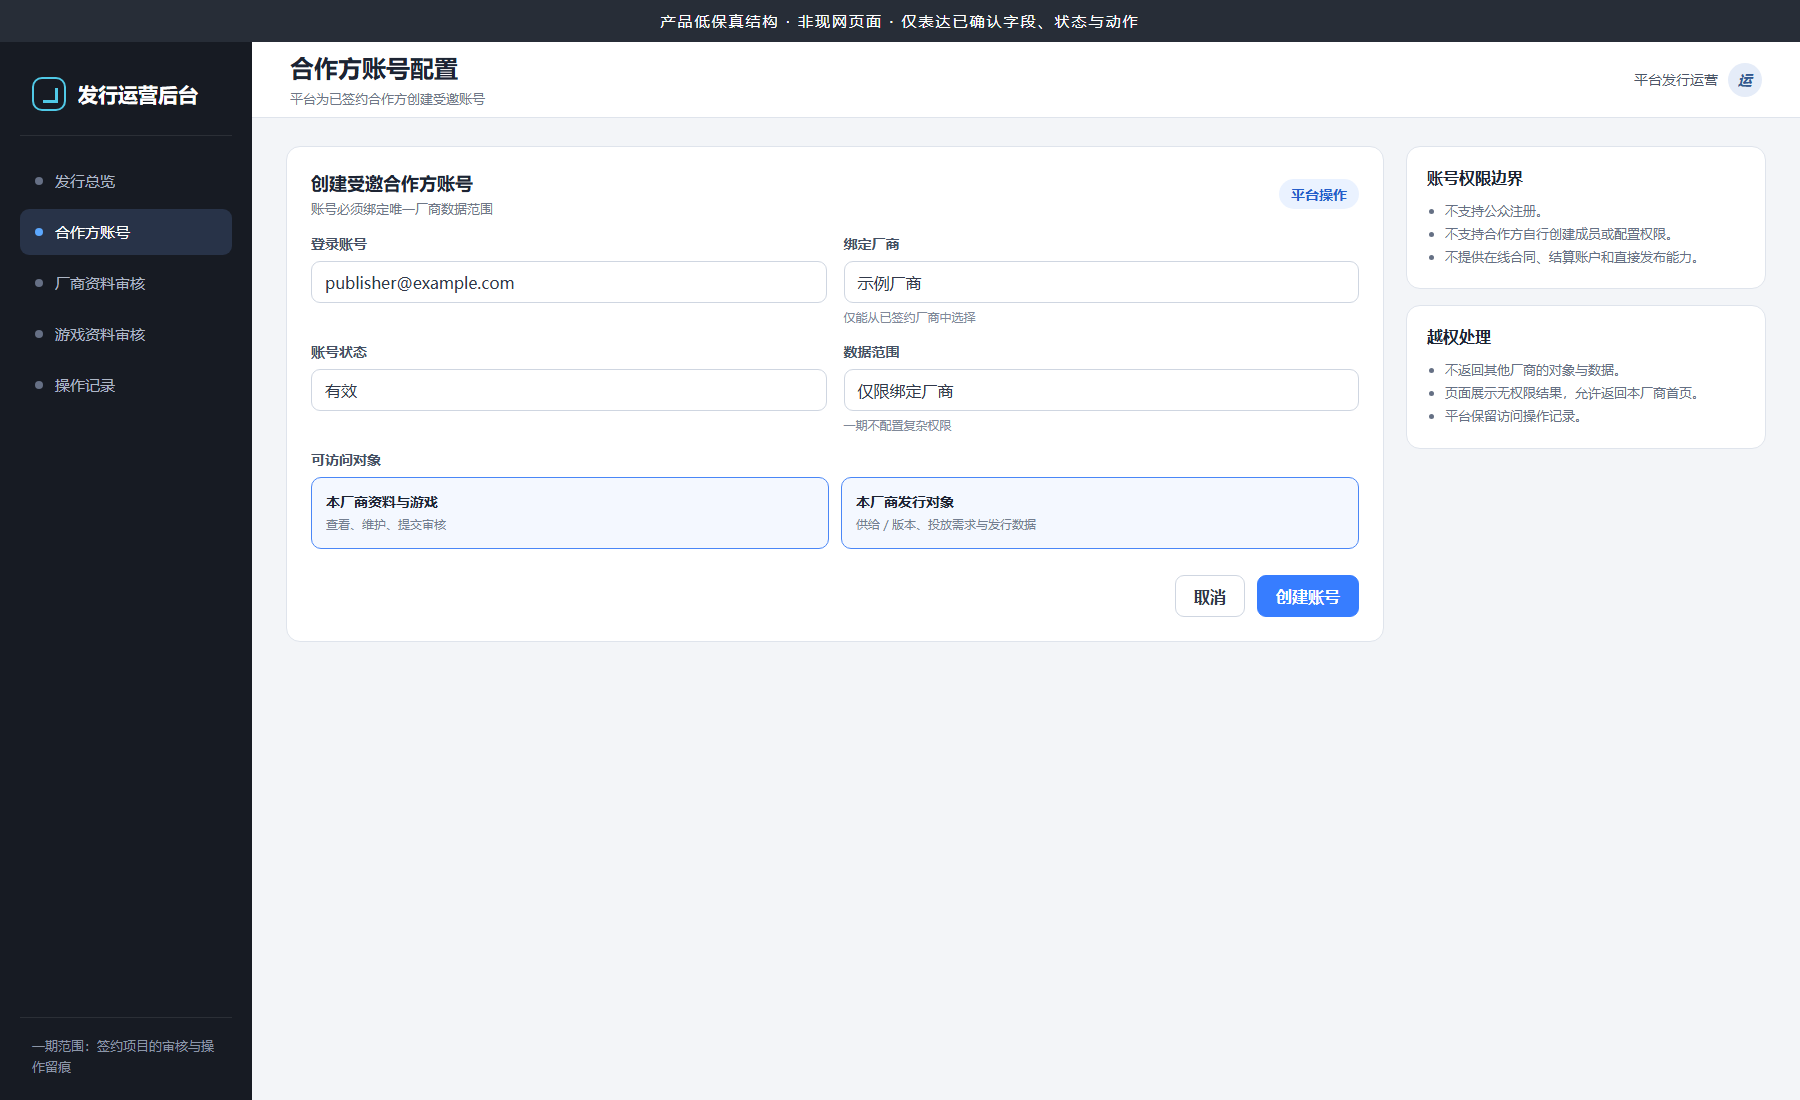
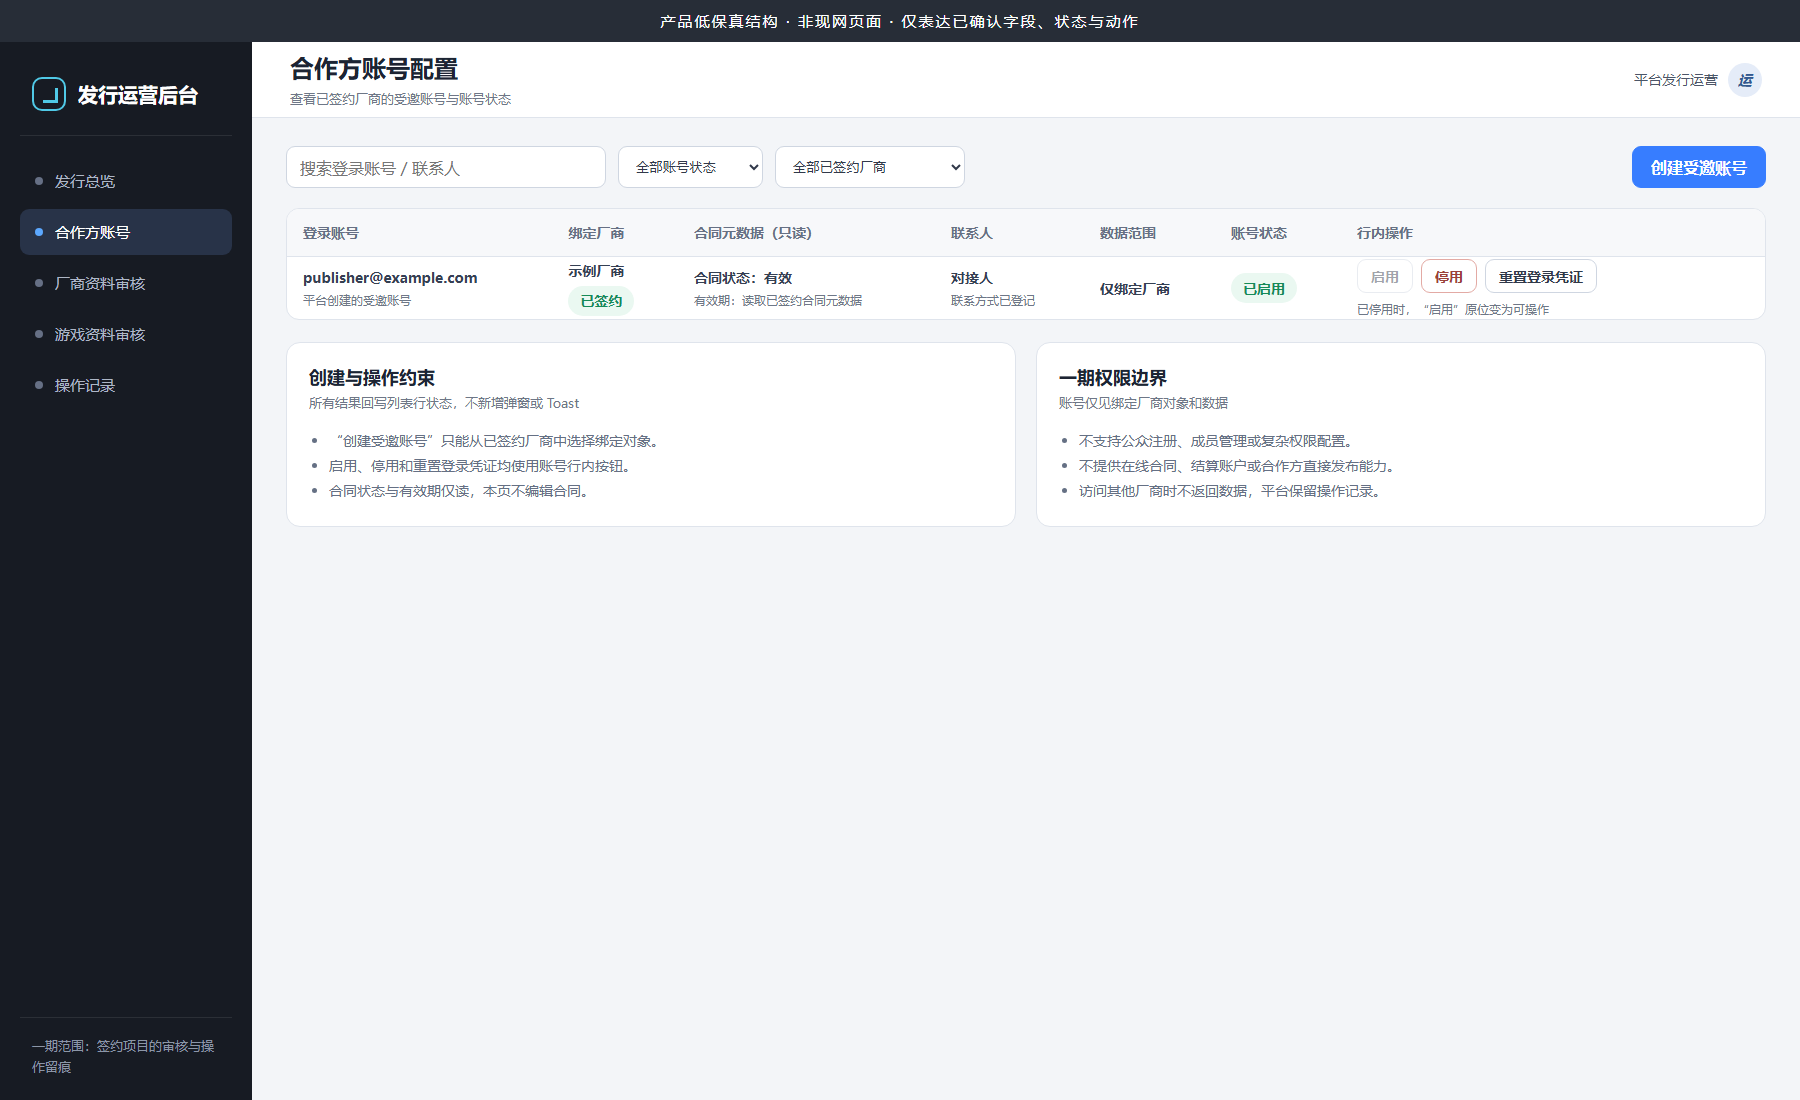
docs: align partner account visual with PRD

diff --git a/public/prd/genuine-game-distribution-phase1/02-developer/developer-screens.html b/public/prd/genuine-game-distribution-phase1/02-developer/developer-screens.html
@@ -24,7 +24,7 @@ const pages = {
 'game-list':()=>admin('游戏管理','仅查看和管理本厂商游戏','游戏管理',`<div class="toolbar"><div class="toolbar-left"><input class="input" placeholder="搜索游戏名称"><select class="select"><option>全部发行方式</option></select><select class="select"><option>全部资料状态</option></select><select class="select"><option>全部发布状态</option></select></div><button class="btn primary">创建游戏</button></div><table class="table"><thead><tr><th>游戏</th><th>发行方式</th><th>资料审核</th><th>供给／版本</th><th>发布状态</th><th>投放状态</th><th>更新时间</th><th>操作</th></tr></thead><tbody><tr><td><div class="object"><i class="thumb">封面</i><div><b>首款签约游戏</b><div class="muted" style="font-size:12px;margin-top:4px">本厂商项目</div></div></div></td><td>${badge('盖世直接下载','blue')}</td><td>${badge('已驳回','red')}</td><td>${badge('未进入')}</td><td>${badge('草稿')}</td><td>${badge('未提交')}</td><td>2026-09-01 10:30</td><td><span class="link">编辑</span><br><span class="link" style="line-height:2.1">查看审核</span></td></tr></tbody></table><div class="pagination"><button class="page-btn">‹</button><button class="page-btn active">1</button><button class="page-btn">›</button></div><div class="card" style="margin-top:22px;padding:18px;color:#657084;font-size:14px;line-height:1.7"><b style="color:#30394a">列表恢复：</b> 加载失败时保留搜索、筛选和排序条件并提供重试；无游戏时展示空态和“创建游戏”入口；不展示其他厂商数据。</div>`,false),
 'game-editor':()=>admin('创建／编辑游戏','填写发行资料，保存草稿或提交审核','游戏管理',`<div class="form-layout"><section class="card form-card"><div class="form-section"><div class="section-title"><div><h2>基本资料与宣传素材</h2><p>提交后进入资料审核中</p></div>${badge('草稿')}</div><div class="field-grid">${field('游戏名称','首款签约游戏')}${field('发行厂商','示例厂商','根据账号绑定厂商确定')}${field('游戏简介','游戏简介内容','',true,'textarea')}<div class="field full"><label>宣传素材</label><div class="placeholder">封面、媒体与相关素材上传区</div><div class="help">厂商对素材拥有合法授权</div></div></div></div><div class="form-section"><h2>语言、地区与系统要求</h2><div class="field-grid">${field('支持语言','由开发者选择')}${field('发行地区','由签约与授权范围确定')}${field('支持系统','Windows')}${field('系统要求','填写必要运行要求')}</div></div><div class="form-section"><h2>游戏标签与发行方式</h2><div class="field-grid">${field('游戏标签','类型／题材／玩法／适配设备','平台审核或修正后生效',true)}<div class="field full"><label>发行方式</label><div class="choice-row"><div class="choice"><b>第三方平台激活</b><span>后续进入 CDKEY 供给关联流程</span></div><div class="choice selected"><b>盖世直接下载</b><span>后续进入 Windows 包体版本和测试流程</span></div></div></div></div></div><div class="actions" style="justify-content:flex-end"><button class="btn">保存草稿</button><button class="btn primary">提交审核</button></div></section><aside><div class="card side-note"><h3>提交规则</h3><ul><li>提交失败不清空已填输入。</li><li>审核中页面只读，防止重复提交。</li><li>已发布游戏修改关键资料时，线上内容保持不变，修改稿重新审核。</li></ul></div><div class="card side-note"><h3>一期发行限制</h3><ul><li>仅覆盖一款 Windows 游戏、单一正式发布分支。</li><li>开发者只能提交审核，不能直接发布。</li></ul></div></aside></div>`,false),
 'review-result':()=>admin('资料审核结果','查看原因、保留已填内容并修改后重新提交','游戏管理',`<div class="state-panel"><div class="detail-stack"><section class="card result-head"><div style="display:flex;align-items:center;justify-content:space-between"><div><h2>游戏资料已驳回</h2><p>本次提交的资料未通过平台审核，已填内容和素材已保留。</p></div>${badge('已驳回','red')}</div></section><section class="card section-card"><div class="section-title"><div><h2>驳回原因</h2><p>平台审核结果</p></div></div><div style="background:#fff4f2;border:1px solid #f0c5c0;color:#7d4039;border-radius:10px;padding:18px;line-height:1.7;font-size:14px">示例原因：宣传素材与发行授权范围需补充一致性说明；已提交游戏标签需根据实际玩法调整。</div><div class="actions" style="margin-top:20px"><button class="btn primary">修改并重新提交</button><button class="btn">返回游戏列表</button></div></section><section class="card section-card"><div class="section-title"><h2>本次提交摘要</h2></div><div class="info-grid"><div class="info-item"><div class="k">游戏</div><div class="v">首款签约游戏</div></div><div class="info-item"><div class="k">发行方式</div><div class="v">盖世直接下载</div></div><div class="info-item"><div class="k">提交内容</div><div class="v">基本资料、素材、标签</div></div></div></section></div><aside class="card timeline"><div class="section-title"><div><h2>审核记录</h2><p>状态与轮次留痕</p></div></div><div class="timeline-item"><b>2026-09-01</b><span>平台驳回<br><span class="muted">原因已记录</span></span></div><div class="timeline-item"><b>2026-08-31</b><span>开发者提交<br><span class="muted">进入资料审核中</span></span></div><div style="margin-top:20px;padding:16px;background:#f7f8fa;border-radius:10px;color:#687386;font-size:13px;line-height:1.65">重新提交后再次进入“资料审核中”，不覆盖既有驳回记录。</div></aside></div>`,false),
-'partner-account':()=>admin('合作方账号配置','平台为已签约合作方创建受邀账号','合作方账号',`<div class="form-layout"><section class="card form-card"><div class="section-title"><div><h2>创建受邀合作方账号</h2><p>账号必须绑定唯一厂商数据范围</p></div>${badge('平台操作','blue')}</div><div class="field-grid">${field('登录账号','publisher@example.com')}${field('绑定厂商','示例厂商','仅能从已签约厂商中选择')}${field('账号状态','有效')}${field('数据范围','仅限绑定厂商','一期不配置复杂权限')}<div class="field full"><label>可访问对象</label><div class="choice-row"><div class="choice selected"><b>本厂商资料与游戏</b><span>查看、维护、提交审核</span></div><div class="choice selected"><b>本厂商发行对象</b><span>供给／版本、投放需求与发行数据</span></div></div></div></div><div class="actions" style="justify-content:flex-end;margin-top:26px"><button class="btn">取消</button><button class="btn primary">创建账号</button></div></section><aside><div class="card side-note"><h3>账号权限边界</h3><ul><li>不支持公众注册。</li><li>不支持合作方自行创建成员或配置权限。</li><li>不提供在线合同、结算账户和直接发布能力。</li></ul></div><div class="card side-note"><h3>越权处理</h3><ul><li>不返回其他厂商的对象与数据。</li><li>页面展示无权限结果，允许返回本厂商首页。</li><li>平台保留访问操作记录。</li></ul></div></aside></div>`,true),
+'partner-account':()=>admin('合作方账号配置','查看已签约厂商的受邀账号与账号状态','合作方账号',`<div class="toolbar"><div class="toolbar-left"><input class="input" style="width:320px" placeholder="搜索登录账号／联系人"><select class="select"><option>全部账号状态</option></select><select class="select" style="min-width:190px"><option>全部已签约厂商</option></select></div><button class="btn primary">创建受邀账号</button></div><table class="table"><thead><tr><th>登录账号</th><th>绑定厂商</th><th>合同元数据（只读）</th><th>联系人</th><th>数据范围</th><th>账号状态</th><th>行内操作</th></tr></thead><tbody><tr><td><div><b>publisher@example.com</b><div class="muted" style="font-size:12px;margin-top:5px">平台创建的受邀账号</div></div></td><td><div><b>示例厂商</b><div style="margin-top:6px">${badge('已签约','green')}</div></div></td><td><div><b>合同状态：有效</b><div class="muted" style="font-size:12px;margin-top:5px">有效期：读取已签约合同元数据</div></div></td><td><div><b>对接人</b><div class="muted" style="font-size:12px;margin-top:5px">联系方式已登记</div></div></td><td><b>仅绑定厂商</b></td><td>${badge('已启用','green')}</td><td style="min-width:330px"><div class="actions" style="gap:8px"><button class="btn small" style="opacity:.45" disabled>启用</button><button class="btn small danger">停用</button><button class="btn small">重置登录凭证</button></div><div class="muted" style="font-size:12px;margin-top:8px">已停用时，“启用”原位变为可操作</div></td></tr></tbody></table><div class="grid-2" style="grid-template-columns:1fr 1fr;margin-top:22px"><section class="card section-card"><div class="section-title"><div><h2>创建与操作约束</h2><p>所有结果回写列表行状态，不新增弹窗或 Toast</p></div></div><ul style="margin:0;padding-left:20px;color:#657084;font-size:14px;line-height:1.8"><li>“创建受邀账号”只能从已签约厂商中选择绑定对象。</li><li>启用、停用和重置登录凭证均使用账号行内按钮。</li><li>合同状态与有效期仅读，本页不编辑合同。</li></ul></section><section class="card section-card"><div class="section-title"><div><h2>一期权限边界</h2><p>账号仅见绑定厂商对象和数据</p></div></div><ul style="margin:0;padding-left:20px;color:#657084;font-size:14px;line-height:1.8"><li>不支持公众注册、成员管理或复杂权限配置。</li><li>不提供在线合同、结算账户或合作方直接发布能力。</li><li>访问其他厂商时不返回数据，平台保留操作记录。</li></ul></section></div>`,true),
 'vendor-review':()=>admin('厂商资料审核','核对固定模板字段并记录审核结果','厂商资料审核',`<div class="audit-layout"><div class="detail-stack"><section class="card section-card"><div class="section-title"><div><h2>示例厂商</h2><p>待审核资料详情</p></div>${badge('资料审核中','amber')}</div><div class="info-grid"><div class="info-item"><div class="k">厂商名称</div><div class="v">示例厂商</div></div><div class="info-item"><div class="k">Logo</div><div class="v">已提交素材</div></div><div class="info-item"><div class="k">官方网站</div><div class="v">https://www.example.com</div></div><div class="info-item" style="grid-column:1/-1"><div class="k">厂商简介</div><div class="v">申请展示的固定模板简介内容</div></div><div class="info-item"><div class="k">联系信息</div><div class="v">已填写</div></div><div class="info-item"><div class="k">绑定账号</div><div class="v">publisher@example.com</div></div></div></section><section class="card section-card"><div class="section-title"><h2>操作记录</h2></div><div class="log-row"><b>2026-09-01 10:10</b><span>示例厂商 提交厂商资料</span><span>${badge('成功','green')}</span></div><div class="log-row"><b>2026-09-01 09:30</b><span>平台创建合作方账号</span><span>${badge('成功','green')}</span></div></section></div><aside class="card review-box"><h2>审核结果</h2><div style="font-size:13px;color:#687386;line-height:1.65;margin-bottom:14px">通过后厂商可继续创建并提交游戏资料；驳回时必须填写原因，资料和原因同步回写开发者平台。</div><label style="display:block;font-size:14px;font-weight:650;margin-bottom:8px">驳回原因</label><div class="textarea" contenteditable="false">选择驳回时填写具体原因</div><div class="actions" style="margin-top:18px"><button class="btn danger">驳回</button><button class="btn primary">通过审核</button></div><div class="log" style="font-size:13px;color:#687386;line-height:1.65">操作人、时间、对象、结果和原因均记录。</div></aside></div>`,true),
 'game-review':()=>admin('游戏资料审核','核对游戏资料、标签和发布前置','游戏资料审核',`<div class="audit-layout"><div class="detail-stack"><section class="card section-card"><div class="section-title"><div><h2>首款签约游戏</h2><p>示例厂商 · 资料审核中</p></div>${badge('资料审核中','amber')}</div><div class="info-grid"><div class="info-item"><div class="k">基本资料</div><div class="v">名称、简介已提交</div></div><div class="info-item"><div class="k">宣传素材</div><div class="v">封面与媒体素材已提交</div></div><div class="info-item"><div class="k">语言／地区</div><div class="v">已提交并待校验</div></div><div class="info-item"><div class="k">支持系统</div><div class="v">Windows</div></div><div class="info-item"><div class="k">系统要求</div><div class="v">已填写</div></div><div class="info-item"><div class="k">发行方式</div><div class="v">盖世直接下载</div></div></div></section><section class="card section-card"><div class="section-title"><div><h2>发布前置校验</h2><p>资料审核通过不等于可发布</p></div></div><table class="table"><thead><tr><th>校验项</th><th>提交结果</th><th>审核要求</th></tr></thead><tbody><tr><td>发行授权</td><td>${badge('已提交','blue')}</td><td>确认授权主体与授权文件</td></tr><tr><td>授权期限</td><td>${badge('待核对','amber')}</td><td>覆盖计划发行期限</td></tr><tr><td>授权地区</td><td>${badge('待核对','amber')}</td><td>销售地区不得超出授权范围；明确超出时驳回</td></tr><tr><td>合同范围</td><td>${badge('待核对','amber')}</td><td>合作范围覆盖本游戏及发行方式</td></tr></tbody></table></section><section class="card section-card" style="padding-top:16px;padding-bottom:16px"><div style="display:flex;align-items:center;justify-content:space-between"><div><b>商品商业条件</b><span class="muted" style="margin-left:10px">价格／领取条件、分成与结算责任</span></div>${badge('后续流程校验','gray')}</div><div class="muted" style="font-size:13px;margin-top:9px">本页只读展示，由后续商品／发布流程校验，不作为游戏资料审核通过门槛。</div></section><section class="card section-card" style="padding-top:16px;padding-bottom:16px"><b>游戏标签：</b><span class="muted" style="margin-left:8px">类型、题材、玩法、适配设备由开发者提交，平台审核或修正后生效。</span></section></div><aside class="card review-box"><h2>资料审核结果</h2><div style="font-size:13px;color:#687386;line-height:1.65;margin-bottom:14px">资料审核通过不等于可发布。发行授权、期限、地区或合同合作范围未满足时，标记“资料已通过／发布前置未满足”并禁止正式发布；销售地区明确超出授权范围时驳回。</div><label style="display:block;font-size:14px;font-weight:650;margin-bottom:8px">驳回原因</label><div class="textarea">选择驳回时填写具体原因</div><div class="actions" style="margin-top:18px;flex-wrap:wrap"><button class="btn">保存标签修正</button><button class="btn danger">驳回</button><button class="btn primary">通过资料审核</button></div><div class="log" style="font-size:13px;color:#687386;line-height:1.65">修正后标签用于正式展示和后续投放；操作记录保留操作人、时间、对象和结果。</div></aside></div>`,true)
 };
